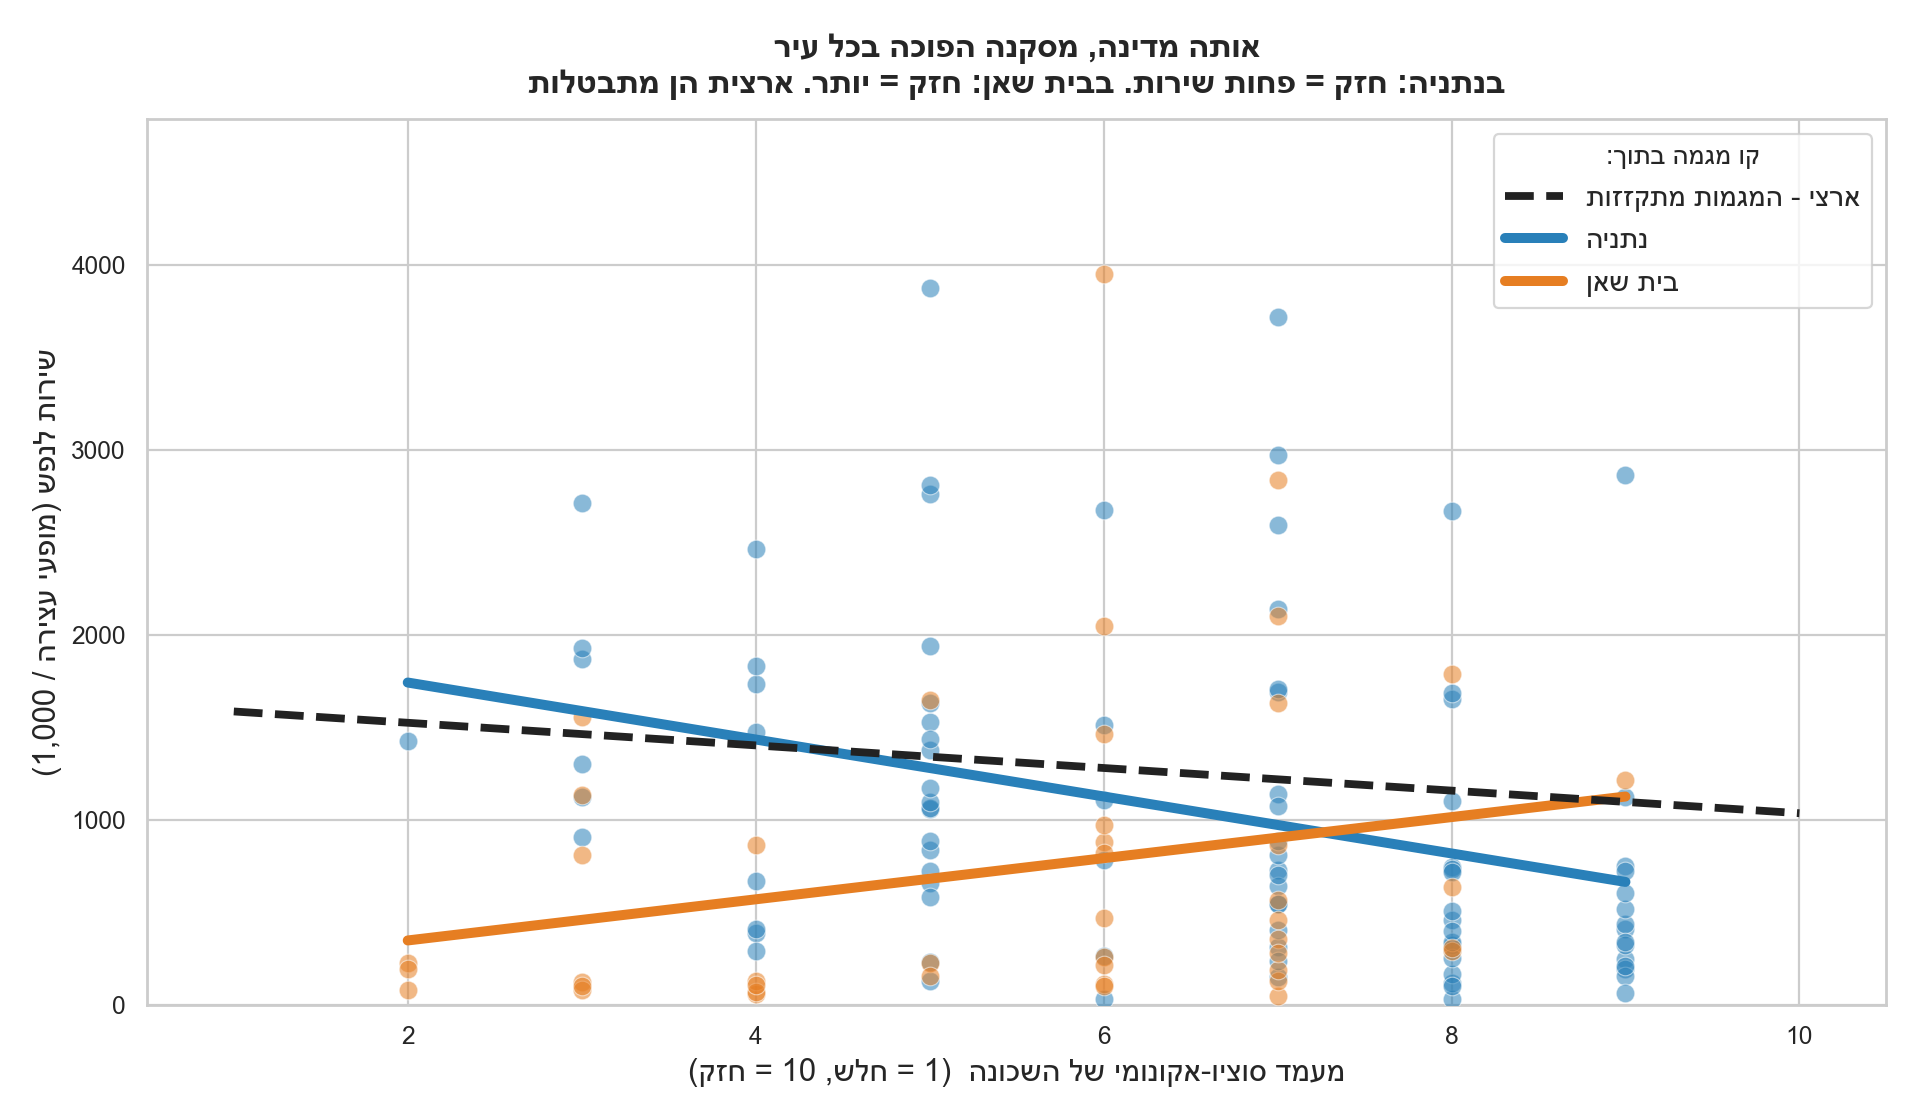
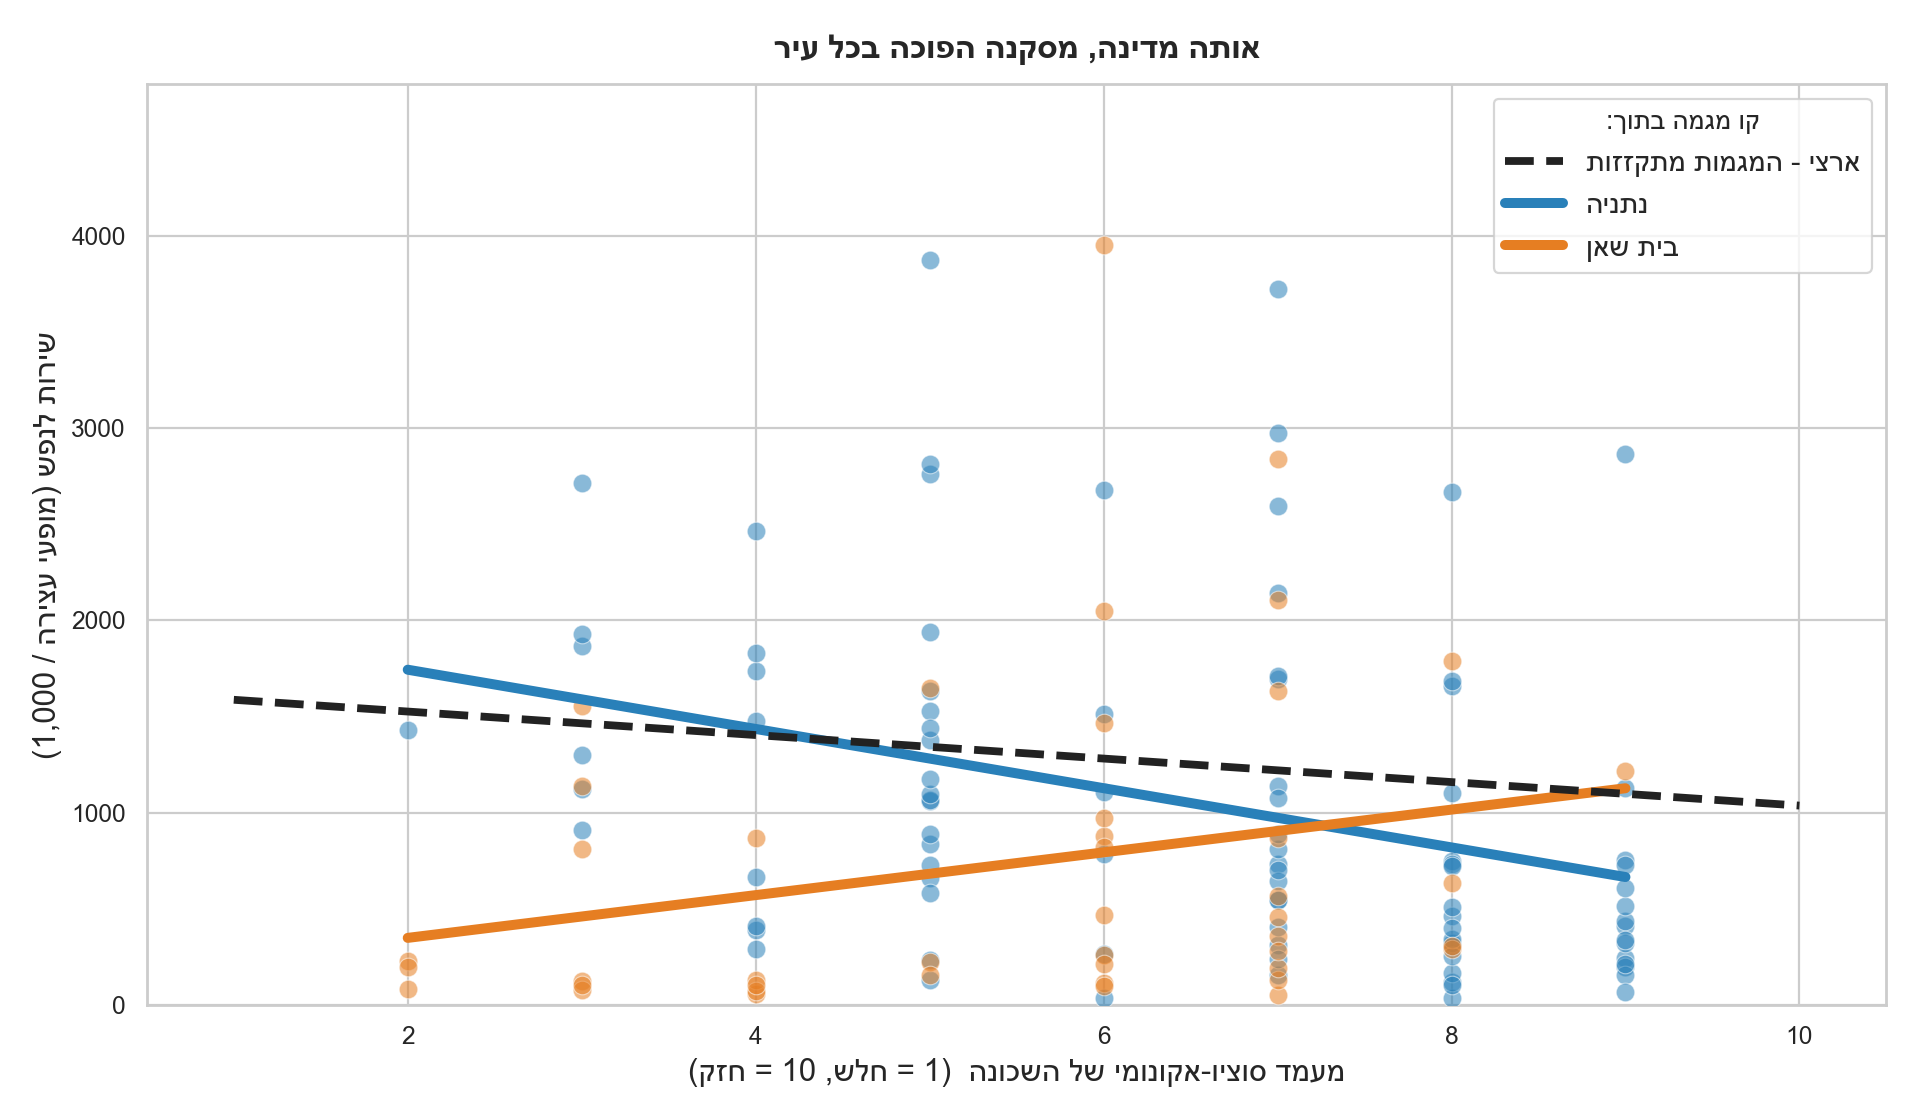
Update plot title for clarity and replace socioeconomic paradox image

diff --git a/public_transport_network_research/06_regional_comparison/scripts/03_socioeconomic_by_cluster.py b/public_transport_network_research/06_regional_comparison/scripts/03_socioeconomic_by_cluster.py
@@ -397,8 +397,7 @@ def plot_simpson_explainer(nb: pd.DataFrame) -> Path:
     ax.set_xlabel("מעמד סוציו-אקונומי של השכונה  (1 = חלש, 10 = חזק)", fontsize=14)
     ax.set_ylabel("שירות לנפש (מופעי עצירה / 1,000)", fontsize=14)
     ax.set_title(
-        "אותה מדינה, מסקנה הפוכה בכל עיר\n"
-        "בנתניה: חזק = פחות שירות. בבית שאן: חזק = יותר. ארצית הן מתבטלות",
+        "אותה מדינה, מסקנה הפוכה בכל עיר",
         fontsize=15, fontweight="bold", pad=12,
     )
     ax.legend(loc="upper right", fontsize=13, frameon=True, title="קו מגמה בתוך:")
